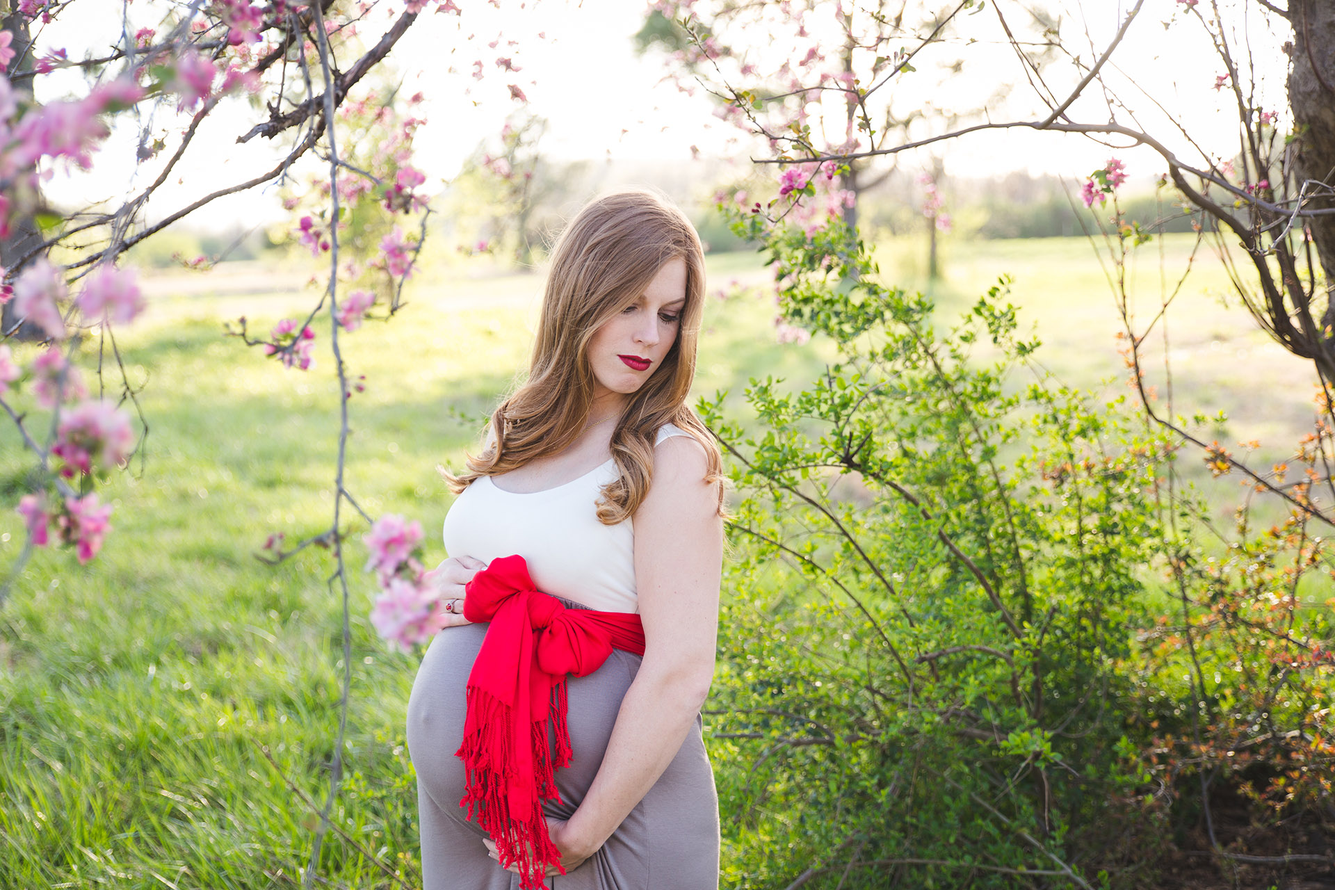
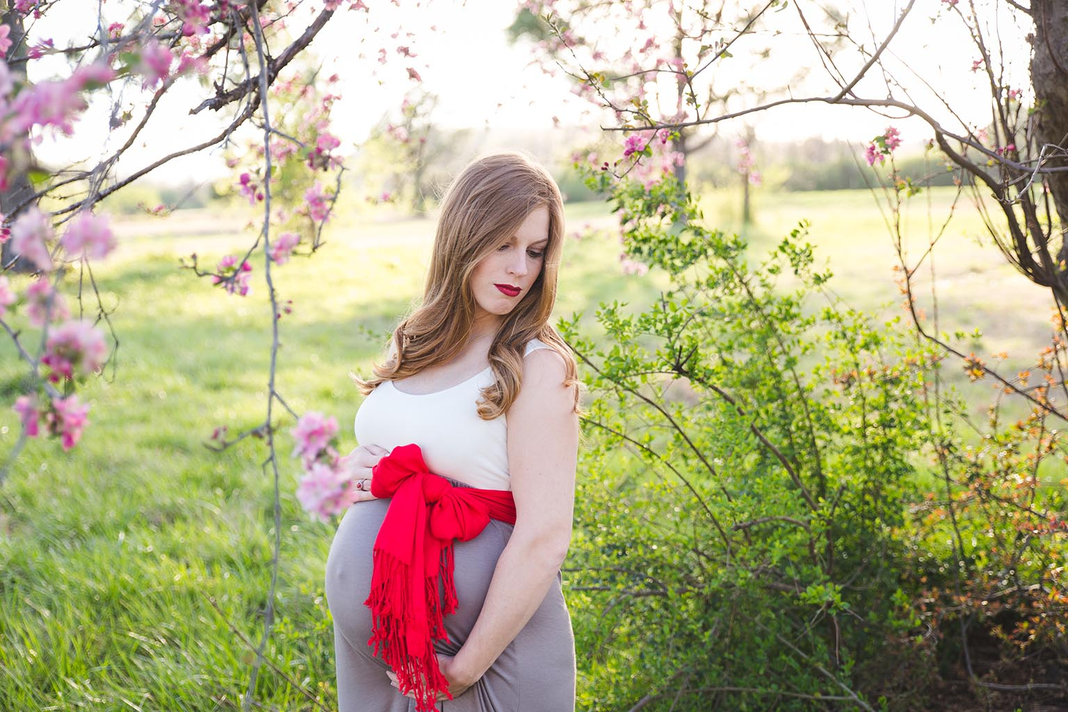
update top photo, misc updates

Changed region(s): [[0.375, 0.9375, 0.4062, 1.0], [0.4062, 0.7812, 0.4375, 0.8125], [0.3438, 0.875, 0.375, 0.9062]]

diff --git a/index.html b/index.html
@@ -48,9 +48,7 @@
 
         <!--Photos-->
 
-        <div class="landingPhotoContainer">
-            <img class="landingPhoto" src="img/landing_photo.jpg" alt="maternity photo">
-        </div>
+        <div class="landingPhotoContainer"></div>
 
         <!--Welcome-->
 
@@ -84,31 +82,19 @@
                 <div class="container">
                     <div class="row">
                         <div class="columns four">
-                            <div class="box">
-                                <div class="bottomPhotosHover"></div>
-                                <a class="bottomPhotos"href="#"><img class="birth" src="img/birth.jpg" alt="water birth"></a>
-                            </div>
+                            <a href="#"><img class="bottomPhotos" src="img/birth.jpg" alt="water birth"></a>
                             <h3>Birth</h3>
                             <p>Birth photography documents the entire birth story of you and your baby.</p>
                          </div><!--end .columns four-->     
-                     
-               
-                
+                    
                         <div class="columns four">
-                            <div class="box">
-                                <div class="bottomPhotosHover"></div>
-                                <a class="bottomPhotos" href="#"><img class="lifestyle" src="img/lifestyle.jpg" alt="lifestyle photo"></a>
-                            </div>
+                            <a href="#"><img class="bottomPhotos" src="img/lifestyle.jpg" alt="lifestyle photo"></a>
                             <h3>Lifestyle</h3>
                             <p>Lifestyle sessions capture the beauty of your everyday life.</p>
                         </div><!--end .columns four-->    
                
-               
                         <div class="columns four">
-                            <div class="box">
-                                <div class="bottomPhotosHover"></div>
-                                <a class="bottomPhotos" href="#"><img class="portraits" src="img/portraits.jpg" alt="family portrait"></a>
-                            </div>
+                            <a href="#"><img class="bottomPhotos" src="img/portraits.jpg" alt="family portrait"></a>
                             <h3>Portraits</h3>
                             <p>Capture precious moments from each stage of life.</p>
                         </div><!--end .columns four--> 
@@ -122,9 +108,9 @@
                 <p>&#169; 2016 Melissa Harms Photography</p>
             </div>
             <div class="footer-icons">
-                <i class="fa fa-facebook-square"></i>
-                <i class="fa fa-instagram"></i>
-                <i class="fa fa-pinterest-square"></i>
+                <a href="#"><i class="fa fa-facebook-square"></i></a>
+                <a href="#"><i class="fa fa-instagram"></i></a>
+                <a href="#"><i class="fa fa-pinterest-square"></i></a>
             </div>   
 
 

diff --git a/css/style.css b/css/style.css
@@ -24,6 +24,7 @@ section {
 
 header {
 	margin: 1em 0;
+	height: 70px;
 }
 .logo {
 	display: inline-block;
@@ -62,15 +63,23 @@ header {
 	text-decoration: none;
 	text-transform: uppercase;
 	color: #7f8c8d;
-
 }
 
 /*-----------------------
 	Top Photos
 -------------------------*/
 
+.landingPhotoContainer {
+	background-image: url(../img/landing_photo.jpg);
+	background-position: center center;
+	background-size: cover;
+	height: 600px;
+    min-width: 80%;
+}
 
 .landingPhoto {
+	background-position: center center;
+	background-repeat: no-repeat;
 	max-width: 100%;
 	margin-top: 35px;
 }
@@ -93,7 +102,7 @@ header {
 }
 
 .button {
-	display:inline-block;
+	display: inline-block;
 	margin-top: 10px;
 	color: #fff;
 	padding: 12px 22px;
@@ -136,31 +145,11 @@ header {
 	See More
 -------------------------*/
 
-.box {
-    width: 300px;
-    min-height: 200px;
-    background-color: #ECECEC;
-    border: 1px solid #C6C6C6;
-    border-radius: 3px;
-    text-align: left;
- }
-
-img.birth,
-img.lifestyle,
-img.portraits {
+.bottomPhotos {
 	display: block;
 	position: relative;
 	max-width: 100%;
-}
 
-.bottomPhotosHover {
-	background-color: black;
-    position: absolute;
-    width: 290px;
-    height: 185px;
-    margin: 5px 5px 0 5px;
-    display: none;
-    opacity: 0.7;
 }
 
 .see-more p {
@@ -191,6 +180,7 @@ footer {
 	margin-top: 55px;
 	padding: 25px;
 	background: #3d3b3c;
+	color: #fff;
 }
 .footer-icons {
 	text-align: center;
@@ -200,6 +190,10 @@ footer {
 	padding: 5px;
 }
 
+footer a {
+	font-size: 1.25rem;
+	color: #fff;
+}
 
 
 

diff --git a/js/landing.js b/js/landing.js
@@ -9,7 +9,3 @@ $(".hamburger").click(function(){
 	
 });
 
-//hover styles on bottom photos
-$(".box").on('mouseenter mouseleave', function() {
-    $(this).find('.bottomPhotosHover').fadeToggle(100);
-})
